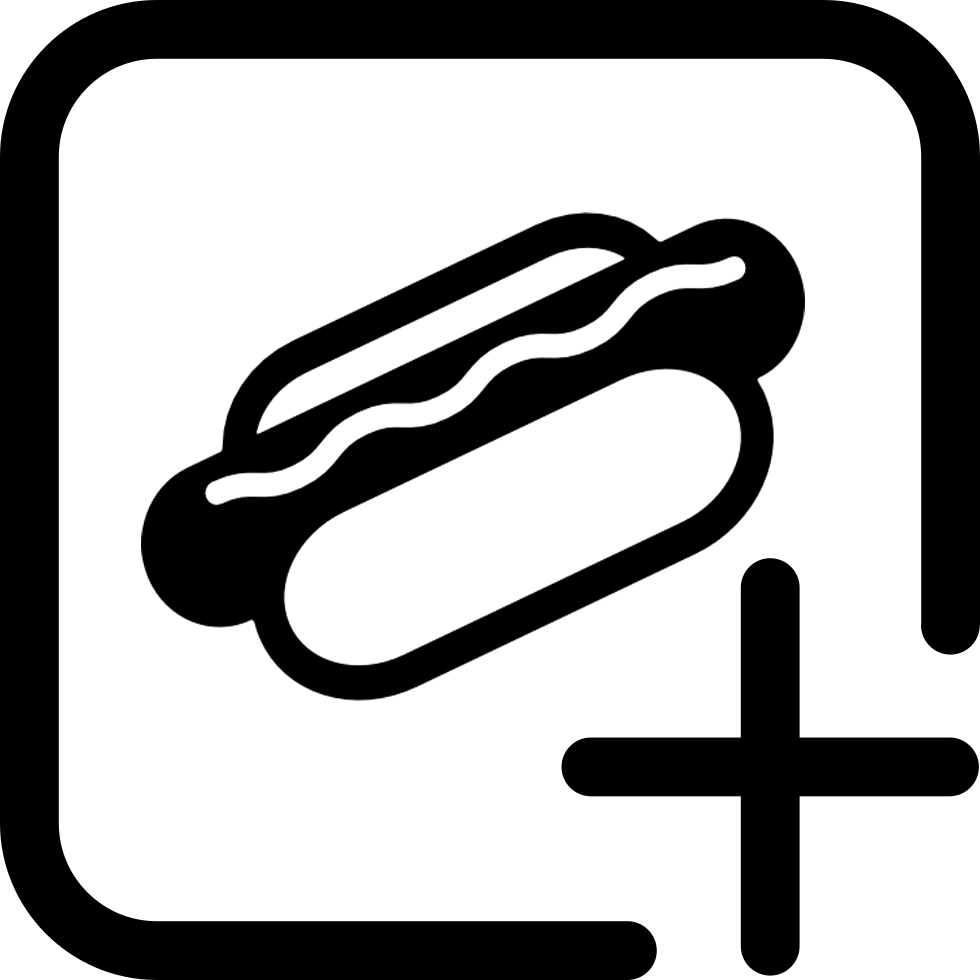
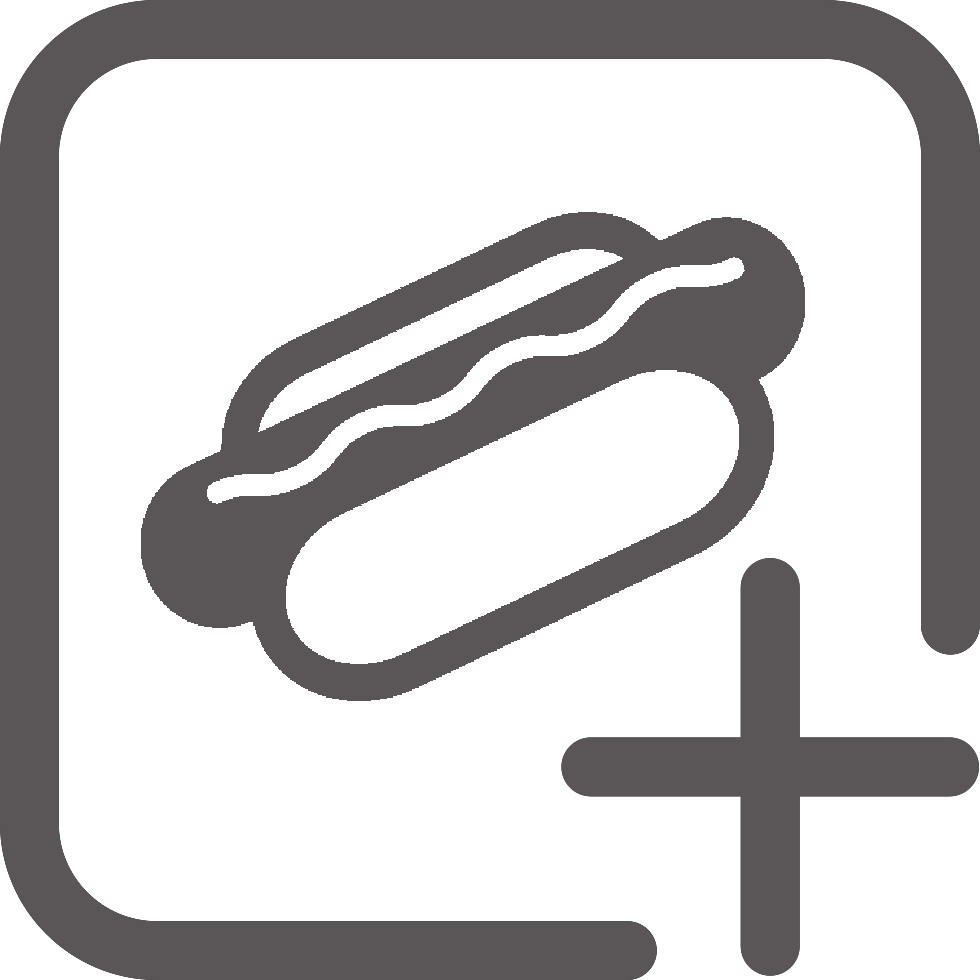
changed hotdog color

diff --git a/client/src/components/PhotoUpload/PhotoUpload.js b/client/src/components/PhotoUpload/PhotoUpload.js
@@ -10,6 +10,7 @@ import ReactCrop from 'react-image-crop'
 import 'react-image-crop/dist/ReactCrop.css'
 import AuthContext from '../../auth'
 import wheel from '../../style/images/wedge.gif'
+import hotdog from '../../style/images/hotdogupload.png'
 
 const config = {
     bucketName: 'whats4lunch-images',
@@ -172,7 +173,7 @@ const PhotoUpload = () => {
                     onChange={onSelectFile}
                 />
                 <label className="upload-button-label" htmlFor="raised-button-file">
-                    <img className="upload-photo" src="https://whats4lunch-images.s3.amazonaws.com/photos/hotdogupload.png"/>
+                    <img className="upload-photo" src={hotdog}/>
                     <Button variant="raised" component="span" className="upload-button">
                     </Button>
                 </label> 
@@ -188,7 +189,7 @@ const PhotoUpload = () => {
                      /> 
                 )}
                 <div className="upload-text-area-div">
-                    <TextField multiline={true} onChange={handleCaption} value={caption} placeholder="write a caption"></TextField>
+                    <TextField multiline={true} onChange={handleCaption} value={caption} placeholder="Write a caption"></TextField>
                 </div>
                 <div>
                     <Button variant="contained" color="primary" id="upload-button" onClick={upload} disabled={ready}>
